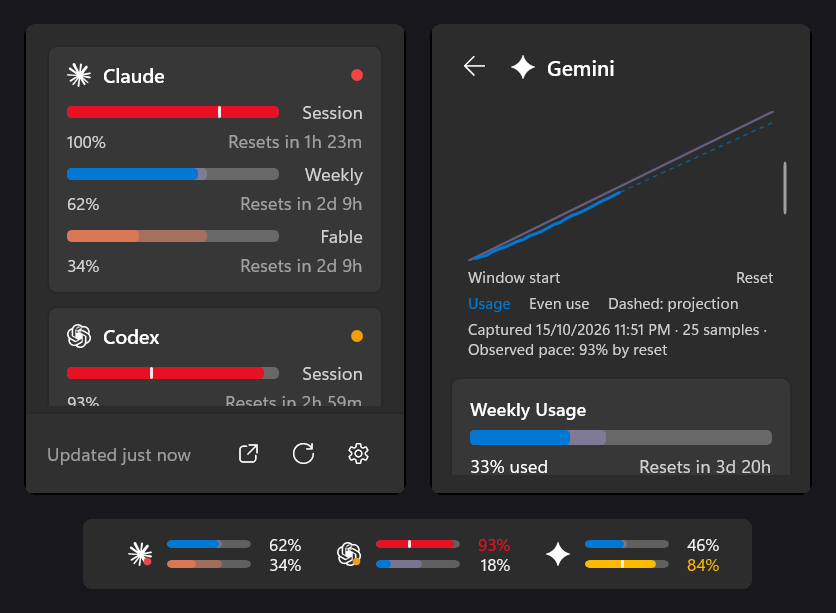
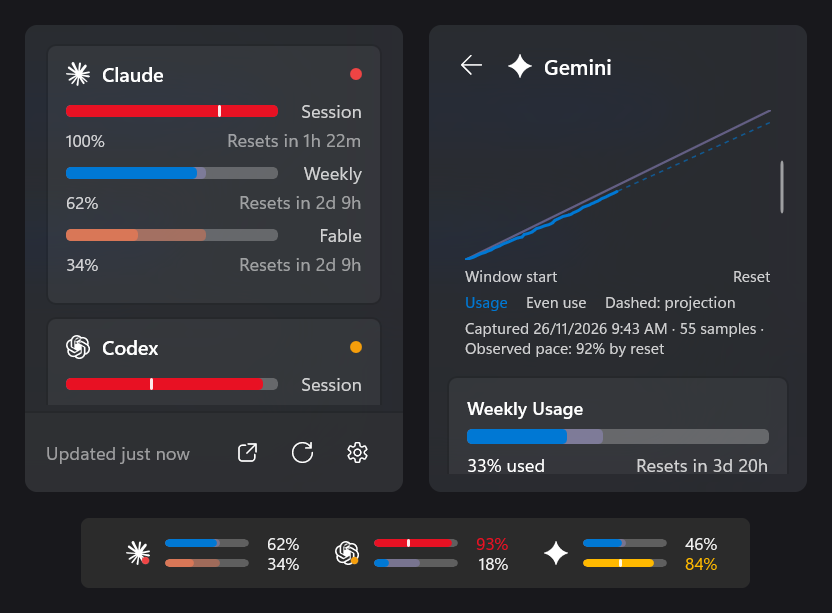
Docs: New screenshots and reset animations from sample data
Captured from a side-by-side preview build in developer mode: the flyout, detail page, strip,
overlay, dashboard and its graphs, Settings, and the new Signed out banner and Sign-ins
section. docs/images/MEDIA.md lists each file with its alt text.

diff --git a/docs/images/MEDIA.md b/docs/images/MEDIA.md
@@ -1,0 +1,20 @@
+# README media
+
+Every image and animation here was captured from the app running in developer mode on invented sample data (fictional
+numbers, plan names and a "You" / "Teammate" API-credits split). None of it is real usage. US English alt text, one line
+on what each file shows.
+
+| File | Alt text | What it shows |
+|------|----------|---------------|
+| `overview.png` | Flyout, detail page and taskbar strip | The tray flyout (Claude at its limit with a red outage dot, Codex with an amber incident dot), Gemini's detail page with its usage history chart, and the taskbar strip below. |
+| `flyout.png` | The flyout: Claude at its limit with a red outage dot, Codex with an amber incident dot | The flyout's provider cards and footer buttons (dashboard, refresh, settings). |
+| `dashboard.png` | The dashboard with a limit reached, an outage, a service incident and API credits running low | Needs-attention summary and the three provider panels: Claude session at 100%, Codex session at 93% ahead of pace, Gemini External 7d near its limit, API credits running low. |
+| `dashboard-graphs.png` | The GRAPHS section with a burndown chart for every usage window | One card per provider with usage against an even-use guide and a dashed projection; red for the windows ahead of pace, amber for External 7d (Diagnostics strip cropped off). |
+| `overlay.png` | The floating overlay | The always-on overlay: one row per provider, two bars each, with the status dots on the Claude and Codex logos. |
+| `taskbar-strip.png` | The taskbar strip | The same readout laid out as the strip along the taskbar. |
+| `settings.png` | Settings | The whole Settings window, captured at three scroll positions and joined into two columns without gaps (Appearance, Providers, costs and API budget, Sign-ins, Behavior). |
+| `signed-out.png` | A provider panel showing the Signed out banner with its Sign in button | The dashboard's Codex panel when its sign-in is gone: the banner and button, with the last known numbers dimmed. |
+| `settings-signins.png` | Settings, Sign-ins: Codex signed out, the others signed in | The Sign-ins section of Settings with one provider showing Signed out and its Sign in button. |
+| `reset-overlay.gif` | A reset animation on the floating overlay | Claude's session bar at 100% resets: the ring draws, the fill turns green and collapses, a glow sweeps across (about 4 s, loops). |
+| `reset-dashboard.gif` | A reset animation on a dashboard card | The same animation on the dashboard's Claude panel; the At limit badge and the limit warning clear as the data refreshes (about 4 s, loops). |
+
